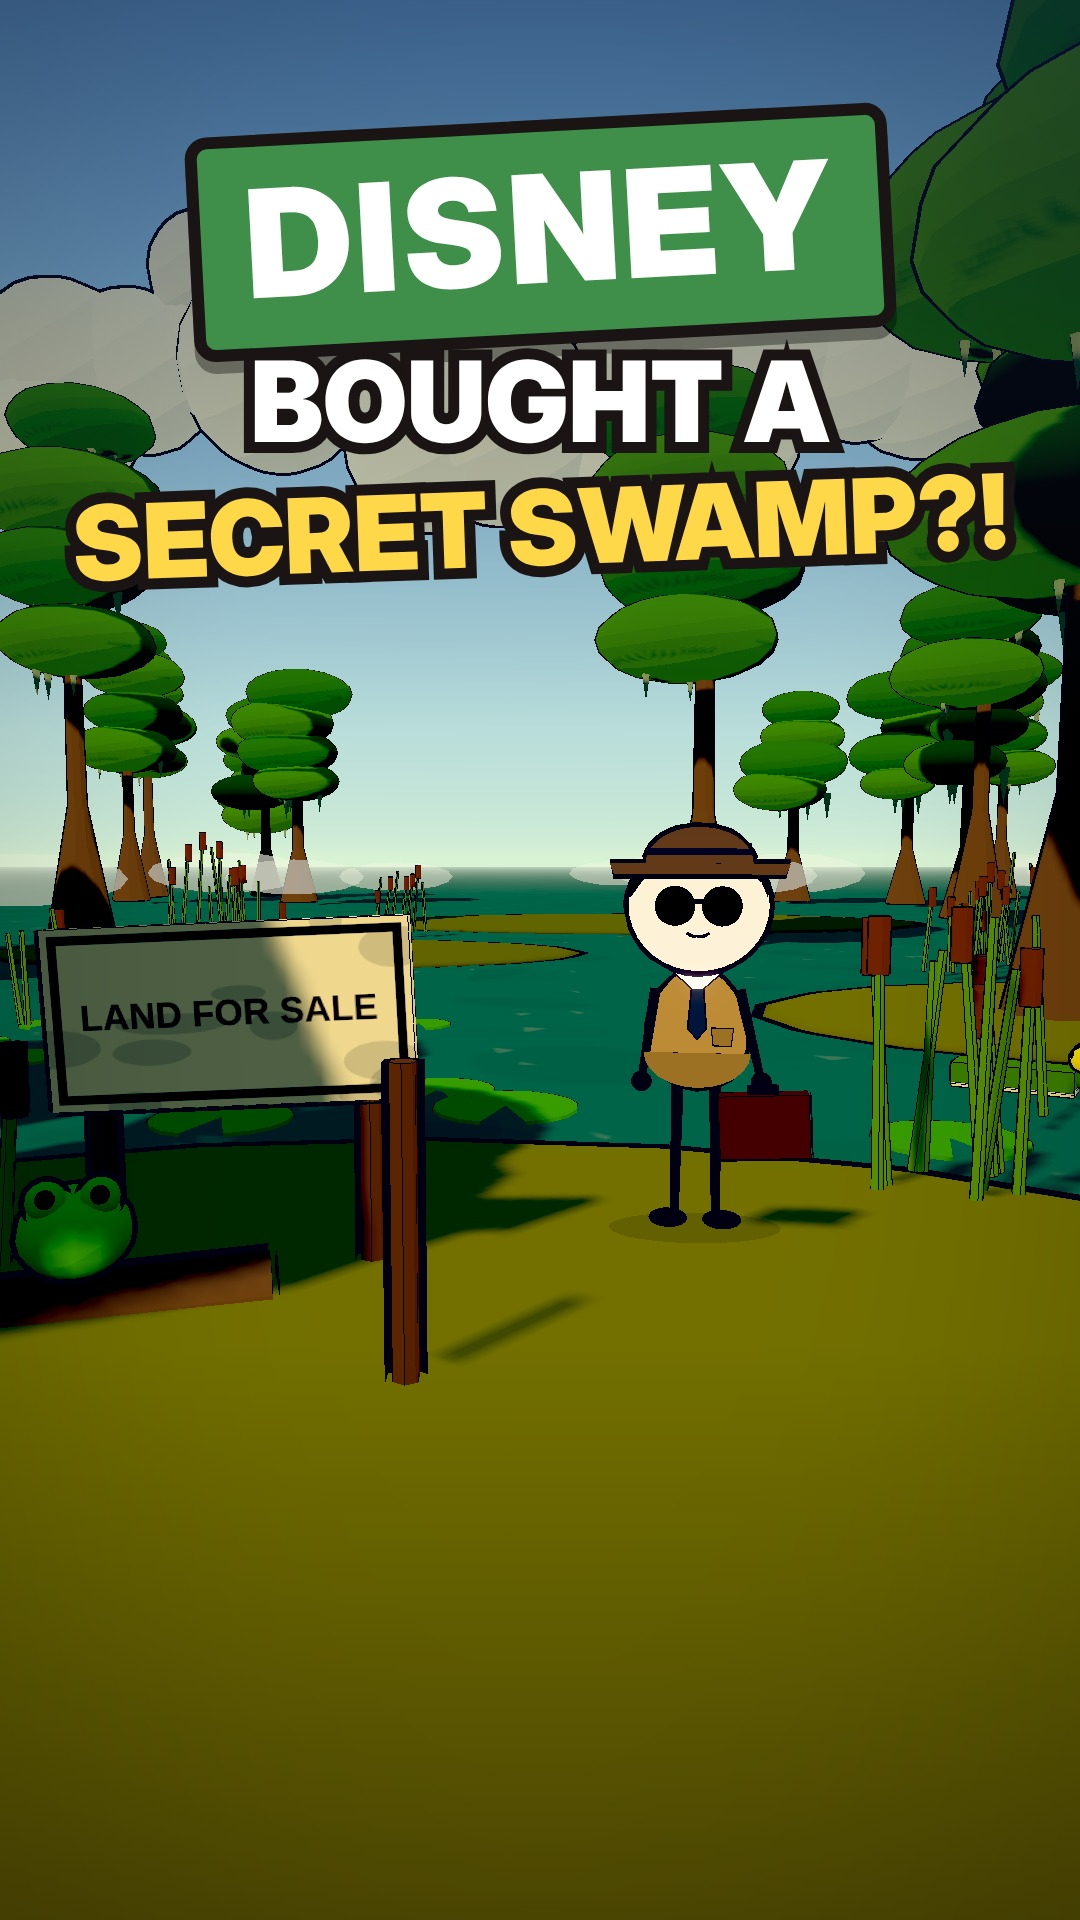
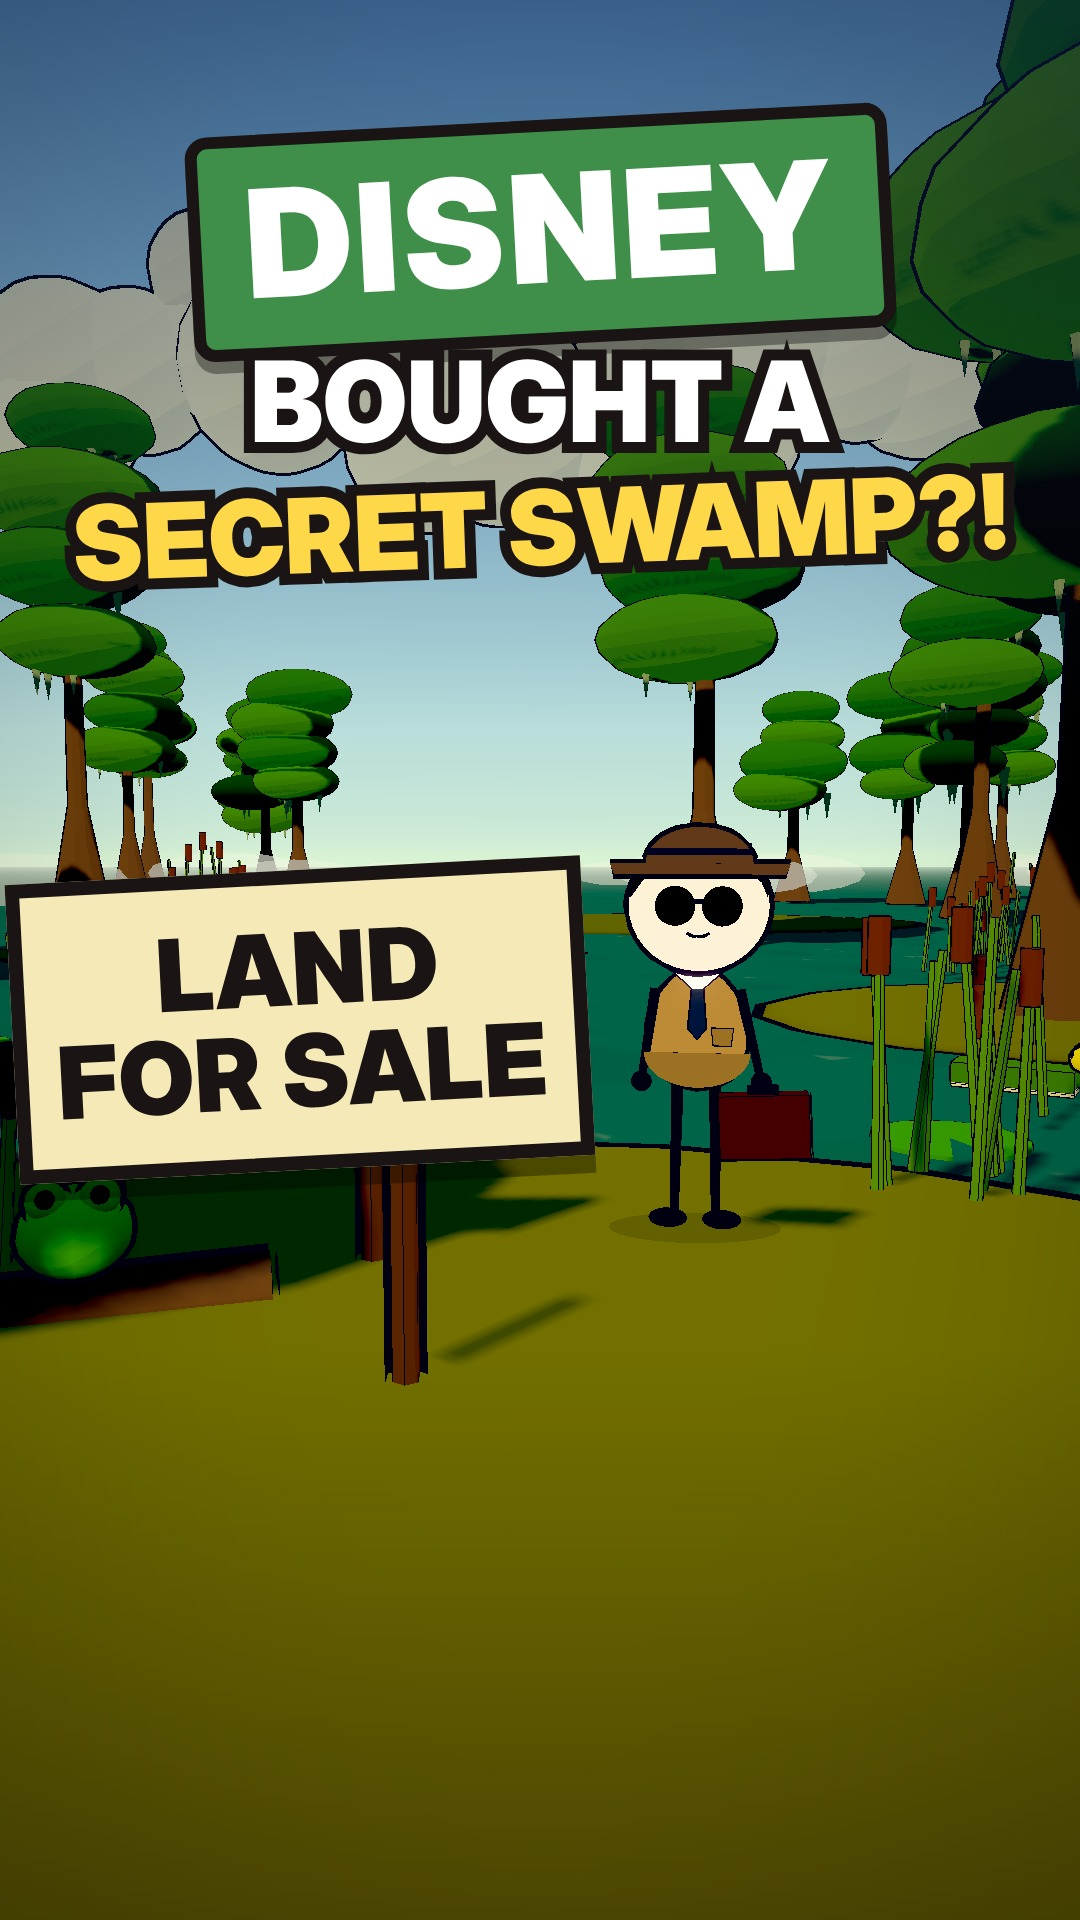
002: bigger LAND FOR SALE sign on thumbnail (owner feedback); make_thumb sign option; mobile-responsive dashboard
Claude-Session: https://claude.ai/code/session_01CJVLf7C9ipHxbEv5yZpmw5

Changed region(s): [[0.0, 0.4375, 0.55, 0.625]]

diff --git a/docs/index.html b/docs/index.html
@@ -33,8 +33,11 @@ button,input,textarea,select{font:inherit;color:inherit}
 .dot.ok{background:var(--ok)}.dot.warn{background:#d39b00}.dot.bad{background:var(--bad)}.dot.run{background:var(--info);animation:pulse 1.2s infinite}
 @keyframes pulse{50%{opacity:.25}}
 .auth{display:flex;align-items:center;gap:8px;padding:0 16px;border-left:1px solid var(--rule)}
-.layout{display:grid;grid-template-columns:330px 1fr;min-height:calc(100vh - 58px)}
-aside{border-right:1px solid var(--rule);background:var(--sheet)}
+.layout{display:grid;grid-template-columns:330px minmax(0,1fr);grid-template-rows:auto 1fr;grid-template-areas:"jobs main" "feed main";min-height:calc(100vh - 58px)}
+.a-jobs{grid-area:jobs}.a-feed{grid-area:feed;border-top:0}#main{grid-area:main;min-width:0}
+details>summary{list-style:none;cursor:pointer}details>summary::-webkit-details-marker{display:none}
+.track-m{display:none}
+aside{border-right:1px solid var(--rule);background:var(--sheet);min-width:0}
 .sect{font:10.5px var(--mono);text-transform:uppercase;letter-spacing:.9px;color:var(--ink3);padding:14px 16px 6px;display:flex;justify-content:space-between}
 .job{display:block;width:100%;text-align:left;border:0;border-top:1px solid var(--rule2);background:none;padding:11px 16px;cursor:pointer}
 .job:hover{background:#f6f3ec}
@@ -138,7 +141,55 @@ textarea.code{font:12.5px/1.55 var(--mono);min-height:520px}
 .overview>div:last-child{border-right:0}
 .overview .big{font:500 26px/1 var(--serif)}
 .overview .lbl{margin-bottom:8px}
-@media (max-width:900px){.layout{grid-template-columns:1fr}aside{border-right:0;border-bottom:1px solid var(--rule)}.grid2,.grid3{grid-template-columns:1fr}.track{grid-template-columns:repeat(4,1fr)}.overview{grid-template-columns:1fr 1fr}.brand{min-width:0}}
+@media (max-width:900px){
+  html,body{overflow-x:hidden;font-size:14px}
+  .top{flex-wrap:wrap;position:static}
+  .brand{min-width:0;flex:1;border-right:0;padding:12px 14px}
+  .auth{border-left:0;padding:0 14px}
+  .systems{order:3;flex-basis:100%;display:grid;grid-template-columns:1fr 1fr;border-top:1px solid var(--rule);overflow:visible}
+  .sys{min-width:0;white-space:normal;border-bottom:1px solid var(--rule2);padding:8px 12px}
+  .sys:nth-child(2n){border-right:0}
+  .sys .v{font-size:13px;overflow:hidden;text-overflow:ellipsis;white-space:nowrap}
+  .sys .s{font-size:11.5px;overflow:hidden;text-overflow:ellipsis;white-space:nowrap}
+  .layout{grid-template-columns:minmax(0,1fr);grid-template-areas:"jobs" "main" "feed";grid-template-rows:auto}
+  aside{border-right:0}
+  .a-jobs{border-bottom:1px solid var(--ink)}
+  .a-jobs .sect{padding:10px 14px 4px}
+  .job{padding:10px 14px}
+  .job .meta{flex-wrap:wrap;gap:4px 10px}
+  .a-feed{border-top:1px solid var(--ink)}
+  main{padding:16px 14px 40px}
+  h1{font-size:21px}
+  .track{display:none}
+  .track-m{display:block;margin:14px 0 2px}
+  .track-m .bar{display:grid;grid-template-columns:repeat(7,1fr);gap:3px}
+  .track-m .bar i{height:6px;background:var(--rule)}
+  .track-m .bar i.done{background:var(--ink2)}.track-m .bar i.now{background:var(--ink)}.track-m .bar i.now.attn{background:var(--sig)}.track-m .bar i.now.err{background:var(--bad)}
+  .track-m .lab{display:flex;justify-content:space-between;font:11px var(--mono);color:var(--ink3);margin-top:5px;text-transform:uppercase;letter-spacing:.5px}
+  .actionbar{padding:12px 14px;margin-top:14px}
+  .actionbar .msg{min-width:0}
+  .actionbar .btn{flex:1}
+  .review{grid-template-columns:1fr !important;padding:14px;gap:16px}
+  .review video{max-height:72vh;width:auto;max-width:100%;margin:0 auto}
+  .review .thumbwrap img{max-width:220px}
+  .review .btn{width:100%;padding:12px}
+  .review .vo{max-height:none}
+  .tabs{overflow-x:auto;flex-wrap:nowrap;-webkit-overflow-scrolling:touch;scrollbar-width:none}
+  .tabs::-webkit-scrollbar{display:none}
+  .tab{white-space:nowrap;padding:8px 12px}
+  .panel{padding:14px}
+  .grid2,.grid3{grid-template-columns:1fr}
+  .log li{grid-template-columns:1fr;gap:2px}
+  .log img{max-width:100%}
+  .md table{display:block;overflow-x:auto}
+  .kv{grid-template-columns:110px 1fr}
+  .overview{grid-template-columns:1fr 1fr}
+  .overview>div:nth-child(2){border-right:0}.overview>div:nth-child(-n+2){border-bottom:1px solid var(--rule)}
+  .feed li{padding:7px 14px}
+  .box{padding:16px}
+  textarea.code{min-height:60vh}
+  .sub{gap:6px 12px}
+}
 </style>
 </head>
 <body>
@@ -148,13 +199,15 @@ textarea.code{font:12.5px/1.55 var(--mono);min-height:520px}
   <div class="auth" id="auth"></div>
 </header>
 <div class="layout">
-  <aside>
+  <aside class="a-jobs">
     <div class="sect"><span>Jobs</span><span id="sync" class="mono"></span></div>
     <div id="jobs"></div>
-    <div class="sect" style="margin-top:14px"><span>Activity</span><span>all systems</span></div>
-    <ul class="feed" id="feed"></ul>
   </aside>
   <main id="main"><div class="empty">Loading pipeline…</div></main>
+  <aside class="a-feed">
+    <details id="feedwrap" open><summary class="sect"><span>Activity</span><span>all systems</span></summary>
+    <ul class="feed" id="feed"></ul></details>
+  </aside>
 </div>
 <div id="layer"></div>
 <script>
@@ -235,7 +288,7 @@ async function load(){
 }
 function parseFeed(x){const d=new DOMParser().parseFromString(x,'text/xml');return[...d.querySelectorAll('item')].map(i=>({title:i.querySelector('title')?.textContent,guid:i.querySelector('guid')?.textContent,date:i.querySelector('pubDate')?.textContent})).filter(i=>i.guid!=='setup-sample')}
 function whoOf(c){const m=c.commit.message,a=c.commit.author.name;
-  if(/^dashboard/i.test(m))return['you','You'];if(/^n8n|^publish /i.test(m))return['n8n','n8n'];
+  if(/^dashboard: /.test(m))return['you','You'];if(/^n8n: |^publish /.test(m))return['n8n','n8n'];
   if(a==='render-bot'||/github-actions/.test(a))return['render','Render'];if(a==='claude-pipeline'||/claude/i.test(a))return['claude','Claude'];return['you',a]}
 
 // ---------- render ----------
@@ -277,7 +330,7 @@ function renderMain(){
     <div class="sub mono" style="font-size:11.5px">${esc(id)}</div>
     <h1>${esc(j.title||titleFromId(id))}</h1>
     <div class="sub"><span>${chip(j)}</span><span>Updated ${ago(j.updated)} (${pkt(j.updated)} PKT)</span>${slots[id]?`<span><b>Goes live ${pkt(slots[id])} PKT</b></span>`:''}${j.video_url?`<a href="${esc(j.video_url)}" target="_blank">Full-quality file ↗</a>`:''}</div>
-    ${j.status==='dropped'?'':`<div class="track">${track}</div>`}
+    ${j.status==='dropped'?'':`<div class="track">${track}</div><div class="track-m"><div class="bar">${STAGES.map((x,i)=>`<i class="${i<idx?'done':''} ${i===idx?'now'+(attn?' attn':'')+(err?' err':''):''}"></i>`).join('')}</div><div class="lab"><span>Step ${idx+1} of 7 · ${STAGES[Math.max(idx,0)]}</span><span>${idx<6?'Next: '+STAGES[idx+1]:''}</span></div></div>`}
     ${actionBar(id,j,lastP)}
     ${reviewBlock(id,j)}
     <div class="tabs">${[['progress','Progress'],['script','Script'],['media','Voice · Video · Thumbnail'],['publish','YouTube details'],['frames','Check frames']].map(([k,n])=>`<button class="tab ${S.tab===k?'on':''}" onclick="setTab('${k}')">${n}</button>`).join('')}</div>
@@ -291,7 +344,7 @@ function reviewBlock(id,j){
     const v=j.preview_url||j.video_url;
     return `<div class="review">
       <div><div class="lbl">Watch the video</div>${v?`<video controls playsinline preload="metadata" src="${esc(v)}" onloadedmetadata="this.muted=false;this.volume=1"></video><div class="note">No sound? Click 🔊 in the player, or <a href="${esc(j.video_url||v)}" target="_blank">open the full file ↗</a> and play it on your laptop.</div>`:'<div class="empty">No video file.</div>'}</div>
-      <div><div class="lbl">Thumbnail</div><img src="${RAW}/jobs/${esc(id)}/thumbnail.jpg?u=${encodeURIComponent(j.updated||'')}" onclick="zoom(this.src)" onerror="this.outerHTML='<div class=empty>No thumbnail — the logo thumbnail would be used.</div>'"><div class="note" style="margin-top:10px">Video, thumbnail and the YouTube text are approved together.</div></div>
+      <div class="thumbwrap"><div class="lbl">Thumbnail</div><img src="${RAW}/jobs/${esc(id)}/thumbnail.jpg?u=${encodeURIComponent(j.updated||'')}" onclick="zoom(this.src)" onerror="this.outerHTML='<div class=empty>No thumbnail — the logo thumbnail would be used.</div>'"><div class="note" style="margin-top:10px">Video, thumbnail and the YouTube text are approved together.</div></div>
       <div><div class="lbl">Your decision</div>
         <button class="btn go" style="width:100%;padding:11px"${lock} onclick="decide('${id}','video_approved')">Approve video + thumbnail</button>
         <div class="note" style="margin:10px 0 12px">Goes out ${publishSlots(Object.assign({},S.state,{jobs:{...S.state.jobs,[id]:{...j,status:'video_approved',updated:'9999'}}}))[id]?'on '+pkt(publishSlots(Object.assign({},S.state,{jobs:{...S.state.jobs,[id]:{...j,status:'video_approved',updated:'9999'}}}))[id])+' PKT':'on the next publish slot'} if you approve now.</div>
@@ -331,7 +384,7 @@ function actionBar(id,j,lastP){
     btns=''}
   else if(s==='video_ready'||s==='video_sent'){msg=`<b>The video is ready for review.</b><span>Play it below, check the thumbnail, then approve or ask for changes. Same as ✅ / ❌ in Slack.</span>`;
     btns=''}
-  else if(s==='script_rejected'||s==='video_rejected'){msg=`<b>Changes requested — Claude is on it.</b><span>${j.feedback?'Your note: '+esc(j.feedback.split('\n').slice(-1)[0]):'Waiting for your note. Add one so Claude knows what to fix.'}</span>`;
+  else if(s==='script_rejected'||s==='video_rejected'){msg=`<b>Changes requested — Claude is on it.</b><span>${j.feedback?'Progress updates appear below and in Slack.':'Waiting for your note. Add one so Claude knows what to fix.'}</span>`;
     btns=j.feedback?'':`<button class="btn pri"${lock} onclick="askFeedback('${id}','${s}','What should change?')">Add note</button>`}
   else if(s==='video_approved'){msg=`<b>Approved and scheduled.</b><span>On the publish day at ${esc((S.state.config||{}).publish_time_pkt||'05:00')} PKT n8n hands it to Zapier, which uploads it to YouTube within ~15 min.</span>`;
     btns=`<button class="btn"${lock} onclick="unapprove('${id}')">Pull back to review</button>`}
@@ -467,6 +520,7 @@ async function saveDays(){const d=[...document.querySelectorAll('.days input:che
 async function addIdea(){const t=$('#idea').value.trim();if(!t)return;try{await updateState(st=>{st.ideas=st.ideas||[];st.ideas.push(t)},'dashboard: add story idea');toast('Idea queued for Claude.');load()}catch(e){toast(e.message,true)}}
 async function dropIdea(i){try{await updateState(st=>{(st.ideas||[]).splice(i,1)},'dashboard: remove story idea');load()}catch(e){toast(e.message,true)}}
 
+try{if(matchMedia('(max-width:900px)').matches)$('#feedwrap').removeAttribute('open')}catch(e){}
 load();setInterval(()=>{if(!document.hidden)load()},TOKEN?15000:45000);
 document.addEventListener('visibilitychange',()=>{if(!document.hidden)load()});
 </script>

diff --git a/pipeline/thumbnail/make_thumb.py b/pipeline/thumbnail/make_thumb.py
@@ -7,6 +7,9 @@ Reads jobs/<id>/meta.json:
 - frame: a frame number of the hook shot where the key object is big and clear (look at stills first)
 - box: the brand / subject word in a coloured box (brand NAME only, never a logo)
 - line1 white, line2 big yellow: the shock. Never reveal the twist or the year.
+- optional "sign": {"text": "LAND FOR SALE", "x": 25, "y": 870, "w": 590, "size": 92, "rotate": -3}
+  draws a big, clean sign board over the scene (use it when the owner wants a prop/sign bigger or easier to read;
+  place it over the 3D sign so the original post still shows under it). Coordinates are on the 1080x1920 canvas.
 Renders a clean frame (no captions) with Remotion, overlays the text, writes jobs/<id>/thumbnail.jpg.
 """
 import json, os, subprocess, sys, shutil, html
@@ -18,12 +21,20 @@ cmd = ['npx', 'remotion', 'still', 'src/index.jsx', 'Story', bg, f"--frame={t['f
 if ch: cmd.append(f'--browser-executable={ch}')
 subprocess.run(cmd, cwd=proj, check=True, stdout=subprocess.DEVNULL)
 e = lambda s: html.escape(s)
+sg = t.get('sign'); sign_html = ''
+if sg:
+    sign_html = (f'<div style="position:absolute;left:{sg.get("x",25)}px;top:{sg.get("y",870)}px;width:{sg.get("w",590)}px;'
+                 f'transform:rotate({sg.get("rotate",-3)}deg);background:#f6e9b8;border:14px solid #1a1414;outline:8px solid #f6e9b8;'
+                 f'outline-offset:-30px;box-shadow:0 18px 0 rgba(0,0,0,.35);padding:34px 24px;text-align:center;'
+                 f'font-family:\'Inter Display\',\'Arial Black\',Arial,sans-serif;font-weight:900;font-size:{sg.get("size",92)}px;'
+                 f'line-height:1.02;color:#1a1414;letter-spacing:1px">{e(sg["text"])}</div>')
 l2 = t['line2']; fs2 = 150 if len(l2) <= 10 else 128 if len(l2) <= 13 else 104
 page = f'''<!DOCTYPE html><html><head><style>html,body{{margin:0;width:1080px;height:1920px;overflow:hidden}}
 body{{background:url(file://{bg}) center/cover}}
 .t{{position:absolute;left:30px;right:30px;text-align:center;font-family:'Inter Display','Arial Black',Arial,sans-serif;font-weight:900;paint-order:stroke fill;-webkit-text-stroke:22px #1a1414}}</style></head><body>
 <div style="position:absolute;inset:0;background:linear-gradient(180deg,rgba(15,30,70,.55) 0%,rgba(15,30,70,0) 38%,rgba(0,0,0,0) 70%,rgba(20,10,5,.4) 100%)"></div>
 <div style="position:absolute;top:120px;left:0;right:0;text-align:center"><span style="display:inline-block;background:{t.get('box_color','#2f6db3')};border:12px solid #1a1414;border-radius:22px;padding:6px 44px 14px;transform:rotate(-3deg);font-family:'Inter Display','Arial Black',Arial,sans-serif;font-weight:900;font-size:150px;color:#fff;letter-spacing:4px;box-shadow:0 12px 0 rgba(0,0,0,.35)">{e(t['box'])}</span></div>
+{sign_html}
 <div class="t" style="top:345px;font-size:112px;color:#fff;line-height:1">{e(t['line1'])}</div>
 <div class="t" style="top:475px;font-size:{fs2}px;color:#ffd84a;line-height:1;transform:rotate(-2deg)">{e(l2)}</div>
 </body></html>'''
